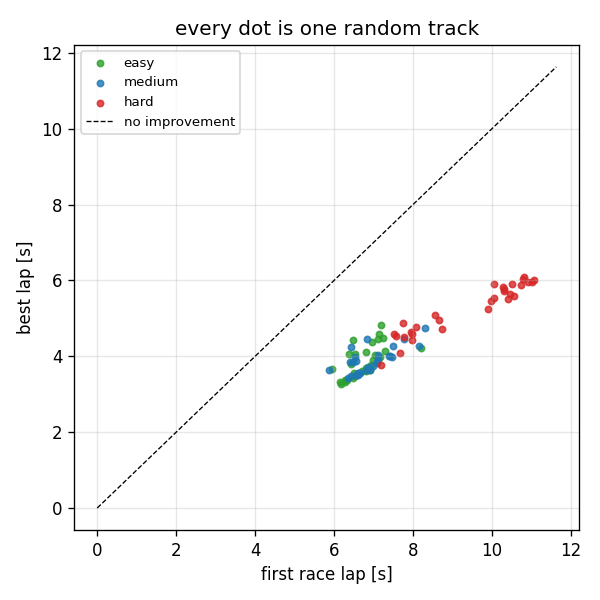
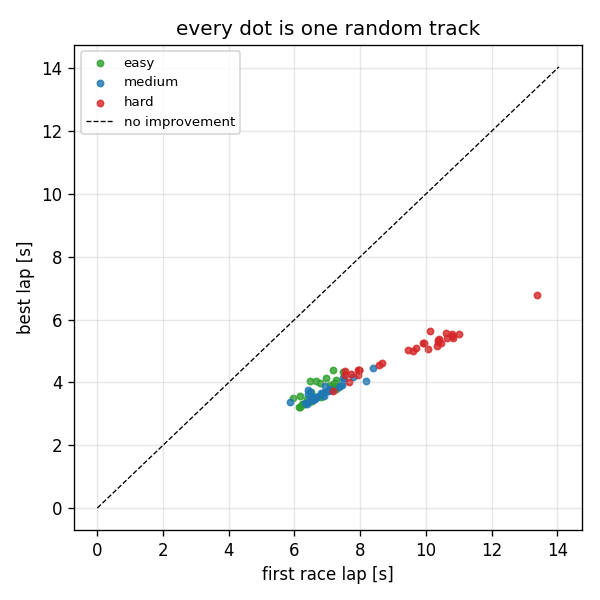
tune racing: plan uses the car's real accel/brake, 60 learning sections, faster ceiling probing, 10 cm corner cut
Each change measured on six tracks x 30 laps against the last version:
- plan a_accel 4 -> 6 and a_brake 5 -> 6 (the friction ellipse already keeps them inside the grip)
- 60 learning sections instead of 20, so a corner does not share a multiplier with the straight next to it
- a ceiling is probed again after 2 clean laps (was 3), by 6 % (was 4 %)
- regulated lookahead allows 10 cm of corner cutting (was 6 cm); the body still stays 21-24 cm off every wall
gen_hard_large_3 6.68 -> 6.20 s, snake 7.52 -> 7.02, twisty 6.67 -> 6.45, chicane 4.78 -> 4.48, hairpin 4.63 -> 4.45;
every track is now within 0-1.4 % of the planned lap at the true grip. No crash anywhere, 90/90 random tracks.
Tried and dropped: bolder learning steps, length weights 0.05/0.25, 3 and 15 cm cutting, a slowness-weighted line.
The min-curvature solve is split into solve_offsets for readability.

diff --git a/racer/planning/racing_line.py b/racer/planning/racing_line.py
@@ -45,13 +45,30 @@ def sideways_room(ref, nrm, dist, grid, clear, reach=1.0):
     return lo, hi
 
 
+def solve_offsets(ref, nrm, lo, hi, length_w):
+    """One bounded least-squares solve: sideways offsets d that make ref + d * nrm bend least, plus a little length,
+    with lo <= d <= hi."""
+    n = len(ref)
+    bend = diags([1, -2, 1], [-1, 0, 1], shape=(n, n)).tolil()
+    bend[0, n - 1] = bend[n - 1, 0] = 1                             # closed loop
+    bend = bend.tocsr()
+    step = diags([-1, 1], [0, 1], shape=(n, n)).tolil()
+    step[n - 1, 0] = 1
+    step = step.tocsr() * length_w
+    nx, ny = diags(nrm[:, 0]), diags(nrm[:, 1])
+    a = vstack([bend @ nx, bend @ ny, step @ nx, step @ ny]).tocsr()
+    b = -np.concatenate([bend @ ref[:, 0], bend @ ref[:, 1], step @ ref[:, 0], step @ ref[:, 1]])
+    return lsq_linear(a, b, bounds=(lo, np.maximum(hi, lo + 1e-9))).x
+
+
 def min_curvature_line(center, grid, cfg):
     """Racing line that bends as little as possible inside the room the map leaves (Heilmeier et al., TUM).
 
     The line is the centerline moved sideways by d at every point. Its bending is the second difference of the
     points, which is linear in d, so the whole lap is one bounded least-squares problem. A small weight on the
     first difference also keeps it short. Solved again around its own result a few times, because moving the
-    points changes their spacing.
+    points changes their spacing. (Weighting the bending by how slow the car is there planned up to 2 % faster
+    on twisty tracks but drove no faster, so it was left out.)
     """
     plan, mapping = cfg["plan"], cfg["mapping"]
     dist = distance_field(grid.occupied(mapping["min_hits"]), grid.res)
@@ -59,22 +76,13 @@ def min_curvature_line(center, grid, cfg):
     for _ in range(plan["mincurv_iters"]):
         ref = resample(line, plan["mincurv_step_m"])
         nrm = normals(ref)
-        n = len(ref)
         lo, hi = sideways_room(ref, nrm, dist, grid, plan["wall_clear_m"] + plan["mincurv_buffer_m"])
-        bend = diags([1, -2, 1], [-1, 0, 1], shape=(n, n)).tolil()
-        bend[0, n - 1] = bend[n - 1, 0] = 1                         # closed loop
-        step = diags([-1, 1], [0, 1], shape=(n, n)).tolil()
-        step[n - 1, 0] = 1
-        bend, step = bend.tocsr(), step.tocsr() * plan["mincurv_length_w"]
-        nx, ny = diags(nrm[:, 0]), diags(nrm[:, 1])
-        a = vstack([bend @ nx, bend @ ny, step @ nx, step @ ny]).tocsr()
-        b = -np.concatenate([bend @ ref[:, 0], bend @ ref[:, 1], step @ ref[:, 0], step @ ref[:, 1]])
-        d = lsq_linear(a, b, bounds=(lo, np.maximum(hi, lo + 1e-9))).x
-        line = ref + nrm * d[:, None]
+        line = ref + nrm * solve_offsets(ref, nrm, lo, hi, plan["mincurv_length_w"])[:, None]
     return resample(line, plan["ds_m"])
 
 
 def build_racing_line(center, width, cfg, grid=None):
+    """Without a map: the smoothed line. With one: the minimum-curvature line."""
     if grid is None:
         return smoothed_line(center, width, cfg)
     return min_curvature_line(center, grid, cfg)
